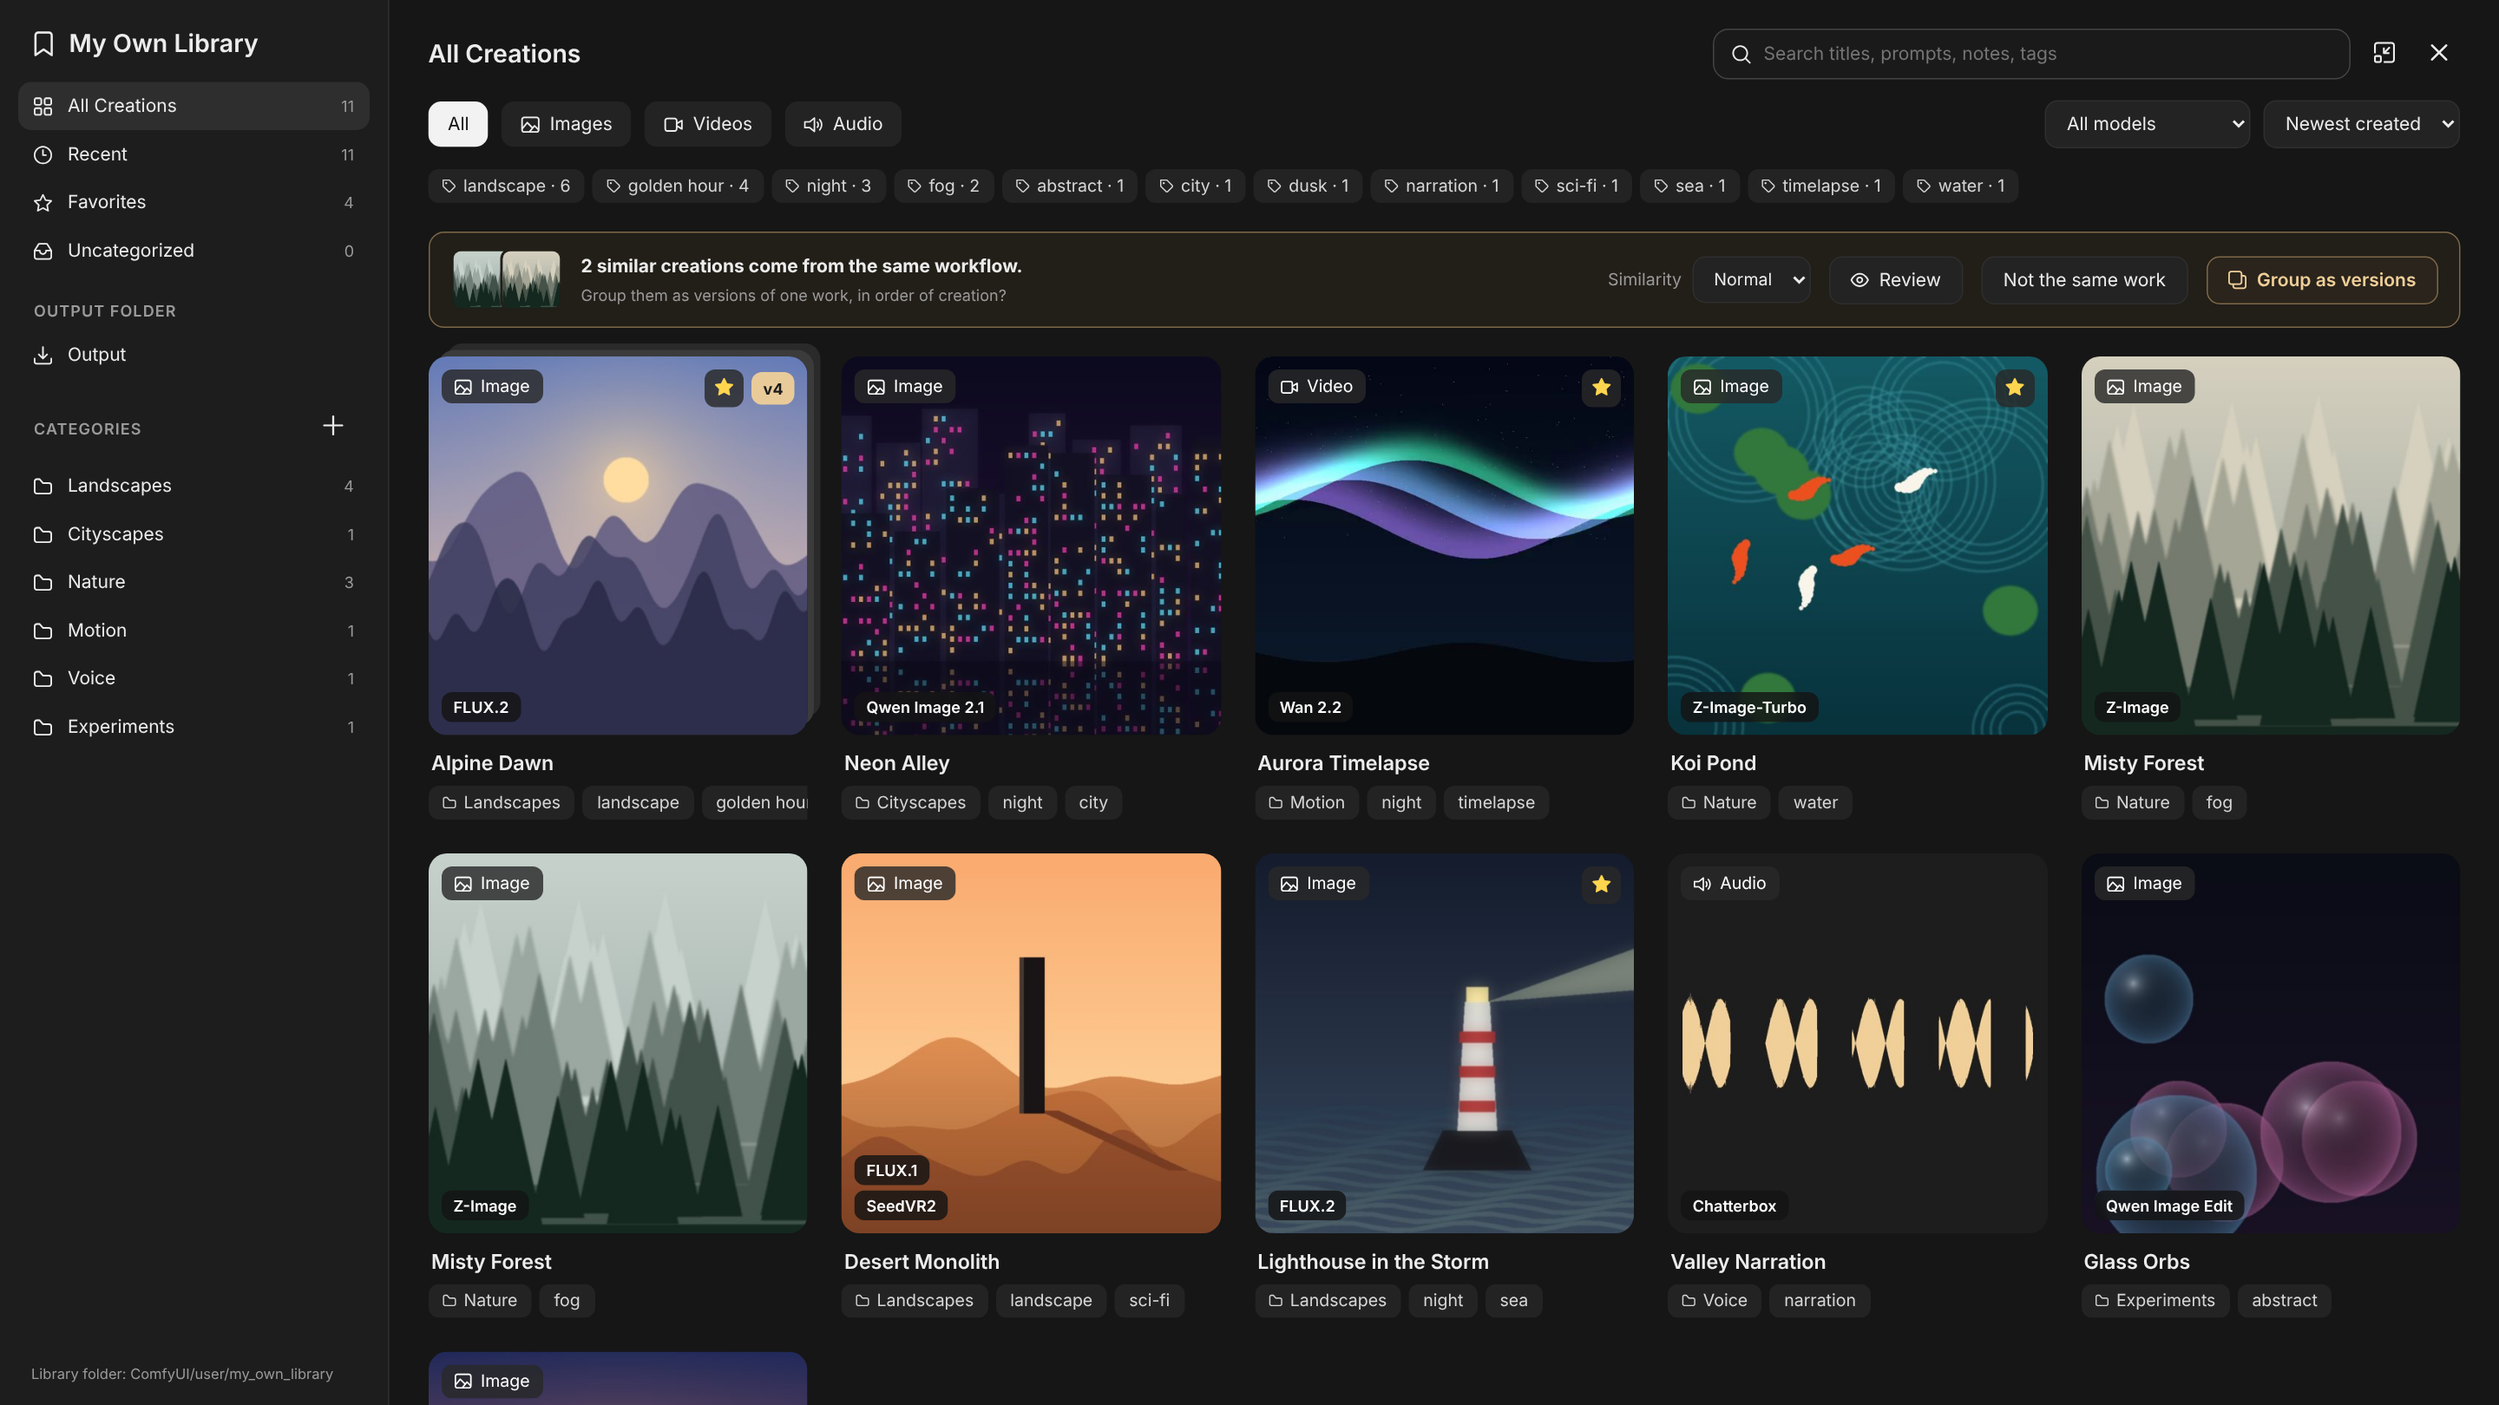
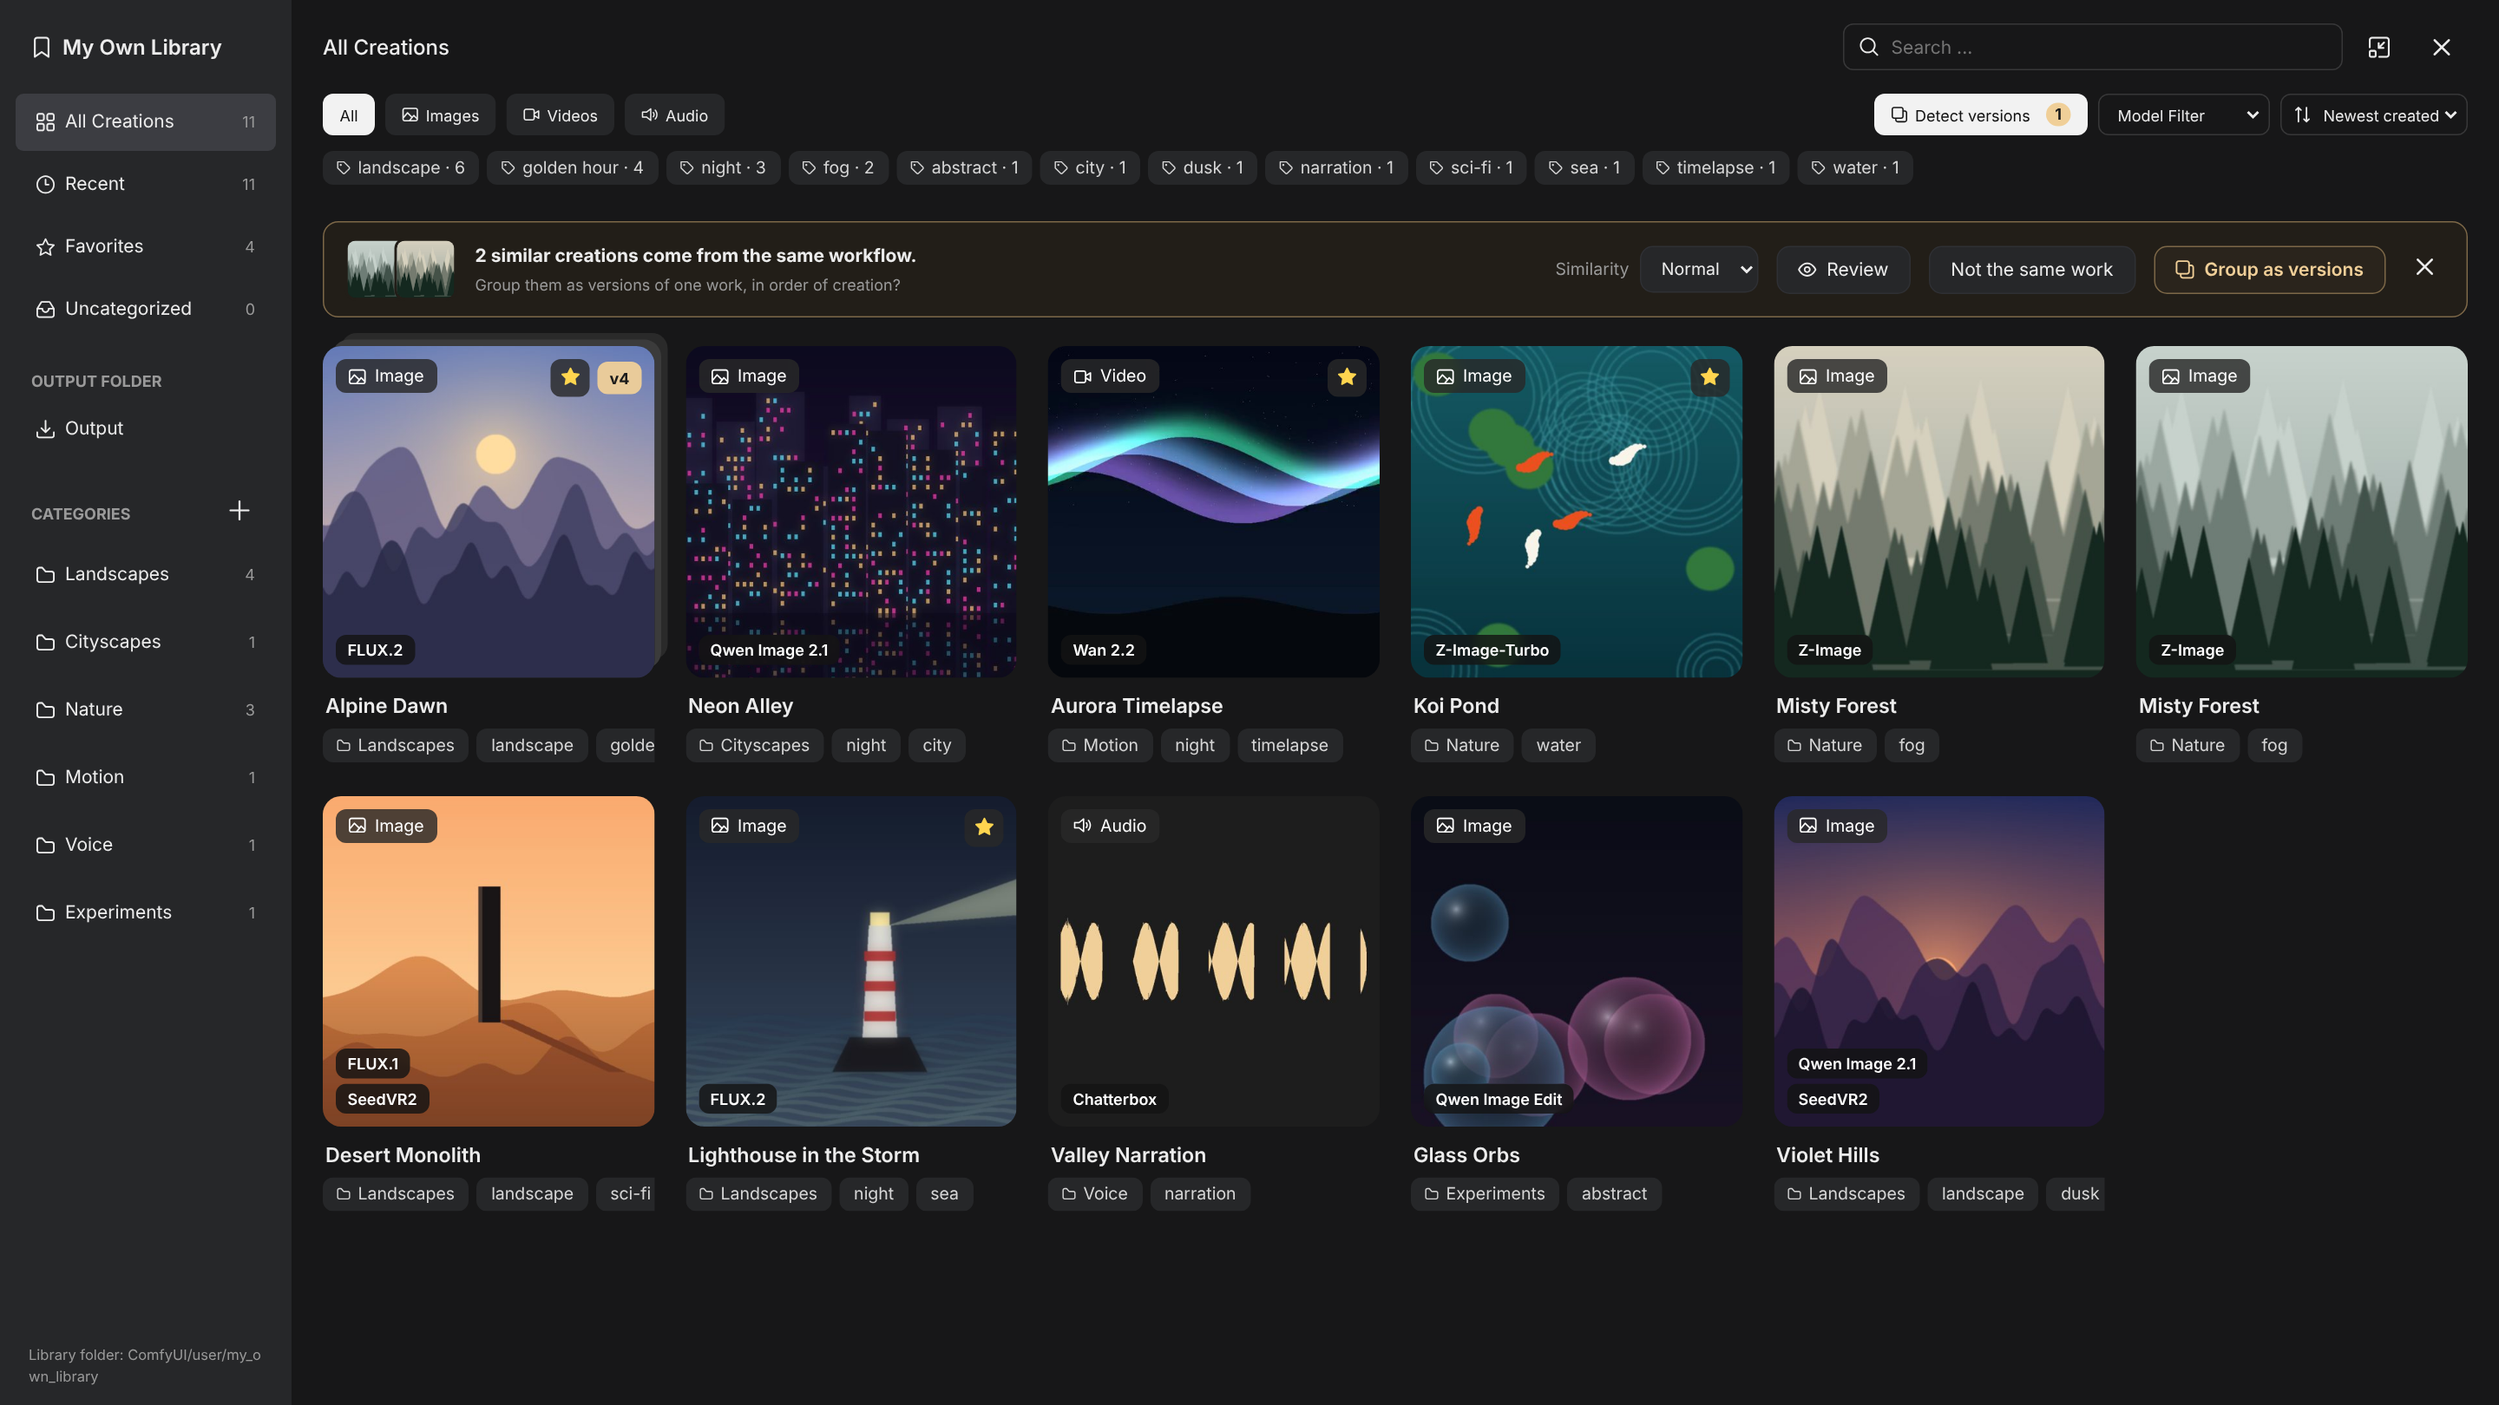
Match the Templates window design
Left column 224 px with Templates' spacing and colors, 72 px header, 384 px
search, close button in the same place, Model Filter and sort menus, smaller
filter buttons, four cards per row. Updated README screenshot.

Claude-Session: https://claude.ai/code/session_01PL6Q2fLhtBdXHD2ppMTosJ

diff --git a/web/my_own_library.js b/web/my_own_library.js
@@ -107,19 +107,22 @@ const CSS = `
 .mol-dialog{position:fixed;inset:0;margin:auto;width:90vw;height:80vh;max-width:1400px;max-height:none;padding:0;box-sizing:border-box;box-shadow:0 18px 60px rgba(0,0,0,.5);
   border:1px solid var(--mol-border);border-radius:16px;background:var(--mol-bg);color:var(--mol-fg);overflow:hidden;
   font-family:inherit;font-size:14px;z-index:10000;
-  --mol-bg:#161616;--mol-panel:#1d1d1d;--mol-card:#232323;--mol-hover:#2c2c2c;--mol-border:#2f2f2f;
+  --mol-bg:#171718;--mol-panel:#262729;--mol-card:#262729;--mol-hover:#2f3034;--mol-border:#2f3034;
   --mol-fg:#ececec;--mol-dim:#9a9a9a;--mol-accent:#f0cf98;--mol-danger:#e57373;--mol-input:#1a1a1a}
 .mol-dialog::backdrop{background:rgba(0,0,0,.55)}
 /* Same size as ComfyUI's Templates window (BaseModalLayout, size md) */
 .mol-dialog.maximized{width:100vw;height:100vh;max-width:none;max-height:none;border:0;border-radius:0}
 .mol-root{display:flex;height:100%;outline:none}
-.mol-nav{width:270px;flex:none;background:var(--mol-panel);border-right:1px solid var(--mol-border);
-  display:flex;flex-direction:column;padding:22px 14px 14px;overflow:auto}
-.mol-brand{display:flex;align-items:center;gap:10px;font-size:19px;font-weight:600;padding:0 10px 18px}
-.mol-navitem{display:flex;align-items:center;gap:12px;padding:10px 12px;border-radius:10px;cursor:pointer;
-  color:var(--mol-fg);user-select:none}
+/* Left column: same measures as Templates (LeftSidePanel, NavItem, NavTitle) */
+.mol-nav{width:224px;flex:none;background:var(--mol-panel);
+  display:flex;flex-direction:column;gap:4px;padding:0 12px 12px;overflow:auto;box-sizing:border-box}
+.mol-brand{display:flex;align-items:center;gap:8px;font-size:16px;font-weight:600;height:72px;flex:none;padding-left:12px;margin-bottom:-4px}
+.mol-navitem{display:flex;align-items:center;gap:8px;padding:12px 16px;border-radius:6px;cursor:pointer;
+  color:var(--mol-fg);user-select:none;font-size:14px;line-height:20px}
+.mol-navitem>i{font-size:14px}
+.mol-section ~ .mol-navitem{margin-top:4px}
 .mol-navitem:hover{background:var(--mol-hover)}
-.mol-navitem.active{background:#2e2e2e}
+.mol-navitem.active{background:#3c3d42}
 .mol-navitem .mol-count{margin-left:auto;color:var(--mol-dim);font-size:12px}
 .mol-navitem .mol-tools{display:none;margin-left:auto;gap:6px}
 .mol-navitem:hover .mol-tools{display:flex}
@@ -127,25 +130,35 @@ const CSS = `
 .mol-tools i{opacity:.7;padding:2px}
 .mol-tools i:hover{opacity:1}
 .mol-section{display:flex;align-items:center;justify-content:space-between;color:var(--mol-dim);font-size:12px;
-  font-weight:600;letter-spacing:.06em;padding:20px 12px 8px;text-transform:uppercase}
+  font-weight:700;padding:20px 12px 0;text-transform:uppercase;min-height:16px}
 .mol-addcat{font-size:12px;padding:4px 6px;min-width:22px;min-height:22px;color:var(--mol-dim)}
 .mol-navfoot{margin-top:auto;padding:16px 10px 2px;color:var(--mol-dim);font-size:11px;word-break:break-all;line-height:1.5}
 .mol-inline-input{width:100%;background:var(--mol-input);color:var(--mol-fg);border:1px solid #555;border-radius:8px;padding:7px 9px;font:inherit}
 .mol-main{flex:1;display:flex;flex-direction:column;min-width:0;position:relative}
-.mol-head{padding:22px 30px 10px;display:flex;flex-direction:column;gap:16px}
-.mol-row{display:flex;align-items:center;gap:10px;flex-wrap:wrap}
-.mol-title{font-size:19px;font-weight:600;margin-right:auto}
-.mol-search{display:flex;align-items:center;gap:8px;border:1px solid #444;border-radius:12px;padding:9px 14px;
-  width:min(460px,40vw);background:var(--mol-input)}
+/* Header: 72 px high, 24 px sides, search 36 px high up to 384 px, 40 px close button */
+.mol-head{padding:0 24px 12px;display:flex;flex-direction:column;gap:12px}
+.mol-head>.mol-row:first-child{height:72px;flex-wrap:nowrap;margin-bottom:-12px;gap:8px}
+.mol-row{display:flex;align-items:center;gap:8px;flex-wrap:wrap}
+.mol-title{font-size:16px;font-weight:500;margin-right:auto;white-space:nowrap}
+.mol-search{display:flex;align-items:center;gap:8px;border:1px solid rgba(255,255,255,.14);border-radius:8px;padding:0 12px;
+  height:36px;box-sizing:border-box;width:100%;max-width:384px;background:transparent;margin-left:auto}
+.mol-head>.mol-row:first-child>.mol-iconbtn{width:40px;height:40px;padding:0;display:inline-flex;align-items:center;justify-content:center}
 .mol-search input{flex:1;background:none;border:0;outline:0;color:var(--mol-fg);font:inherit}
 .mol-iconbtn{background:none;border:0;color:var(--mol-fg);cursor:pointer;font-size:16px;padding:8px;border-radius:8px}
 .mol-iconbtn:hover{background:var(--mol-hover)}
-.mol-chip{display:inline-flex;align-items:center;gap:8px;padding:8px 14px;border-radius:10px;background:var(--mol-card);
-  border:1px solid transparent;cursor:pointer;color:var(--mol-fg);font:inherit;user-select:none}
+.mol-chip{display:inline-flex;align-items:center;gap:6px;height:32px;box-sizing:border-box;padding:0 12px;border-radius:8px;background:var(--mol-card);
+  border:1px solid transparent;cursor:pointer;color:var(--mol-fg);font:inherit;font-size:12px;user-select:none}
+.mol-chip i{font-size:12px}
 .mol-chip:hover{background:var(--mol-hover)}
 .mol-chip.active{background:#f2f2f2;color:#111}
 .mol-select{background:var(--mol-card);color:var(--mol-fg);border:1px solid var(--mol-border);border-radius:10px;
   padding:8px 12px;font:inherit;cursor:pointer;max-width:220px}
+/* Filter menus of the top bar, like Model Filter and the sort menu of Templates */
+.mol-filtersel{display:inline-flex;align-items:center;gap:6px;height:32px;box-sizing:border-box;padding:0 4px 0 10px;
+  border:1px solid rgba(255,255,255,.14);border-radius:8px;font-size:12px;color:var(--mol-fg)}
+.mol-filtersel i{font-size:12px}
+.mol-filtersel select{background:transparent;color:var(--mol-fg);border:0;outline:0;font:inherit;font-size:12px;cursor:pointer;max-width:200px;height:30px}
+.mol-filtersel select option{background:#262729}
 .mol-spacer{flex:1}
 .mol-btn{display:inline-flex;align-items:center;gap:8px;padding:9px 16px;border-radius:10px;border:1px solid var(--mol-border);
   background:var(--mol-card);color:var(--mol-fg);font:inherit;cursor:pointer}
@@ -159,8 +172,8 @@ const CSS = `
   font-size:13px;color:#d6d6d6;cursor:pointer;white-space:nowrap}
 .mol-tag.active{background:var(--mol-accent);color:#1b1b1b}
 .mol-tag i{font-size:10px}
-.mol-grid-wrap{flex:1;overflow:auto;padding:8px 30px 30px}
-.mol-grid{display:grid;grid-template-columns:repeat(auto-fill,minmax(250px,1fr));gap:26px 26px}
+.mol-grid-wrap{flex:1;overflow:auto;padding:12px 24px 30px}
+.mol-grid{display:grid;grid-template-columns:repeat(auto-fill,minmax(240px,1fr));gap:26px 24px}
 .mol-card{cursor:pointer;min-width:0}
 .mol-thumb{position:relative;aspect-ratio:1/1;border-radius:14px;overflow:hidden;background:var(--mol-card)}
 .mol-thumb img,.mol-thumb video{width:100%;height:100%;object-fit:cover;display:block;transition:transform .25s}
@@ -766,7 +779,7 @@ function renderMain() {
     syncVersionBanner();
     const isOutput = S.view === "output";
     const searchInput = h("input", {
-        type: "text", placeholder: isOutput ? "Search file names" : "Search titles, prompts, notes, tags",
+        type: "text", placeholder: "Search ...", title: isOutput ? "Search file names" : "Search titles, prompts, notes, tags and models",
         value: S.search,
     });
     const doSearch = debounce(async () => {
@@ -788,21 +801,23 @@ function renderMain() {
         chip("audio", "Audio", "volume-up")];
     if (!isOutput) {
         const families = allFamilies();
-        const modelSel = h("select", { class: "mol-select", onchange: (e) => { S.family = e.target.value; render(); } },
-            h("option", { value: "" }, "All models"),
-            ...families.map((m) => h("option", { value: m, selected: S.family === m }, m)));
-        const sortSel = h("select", { class: "mol-select", title: "Sort order",
+        const modelSel = h("label", { class: "mol-filtersel", title: "Show only creations made with this model" },
+            h("select", { onchange: (e) => { S.family = e.target.value; render(); } },
+                h("option", { value: "" }, "Model Filter"),
+                ...families.map((m) => h("option", { value: m, selected: S.family === m }, m))));
+        const sortSel = h("select", { title: "Sort order",
             onchange: (e) => { S.sort = e.target.value; savePref("sort", S.sort); render(); } },
             ...[["created-desc", "Newest created"], ["created-asc", "Oldest created"], ["added-desc", "Newest added"],
                 ["added-asc", "Oldest added"], ["title", "Title"]]
                 .map(([v, l]) => h("option", { value: v, selected: S.sort === v }, l)));
+        const sortBox = h("label", { class: "mol-filtersel", title: "Sort order" }, icon("sort-alt"), sortSel);
         const nSug = visibleSuggestions().length;
         const detectBtn = h("button", {
             class: "mol-chip" + (S.versionsOpen ? " active" : ""),
             title: "Show or hide the suggestions of creations to group as versions, and how alike they must be",
             onclick: () => { S.versionsOpen = !S.versionsOpen; savePref("versionsOpen", S.versionsOpen ? "1" : "0"); render(); },
         }, icon("clone"), "Detect versions", nSug ? h("span", { class: "mol-chipcount" }, String(nSug)) : null);
-        filters.push(h("span", { class: "mol-spacer" }), detectBtn, modelSel, sortSel);
+        filters.push(h("span", { class: "mol-spacer" }), detectBtn, modelSel, sortBox);
     } else {
         filters.push(h("button", {
             class: "mol-chip" + (S.newOnly ? " active" : ""), title: "Only files created since your previous visit of this view",

diff --git a/README.md b/README.md
@@ -44,11 +44,11 @@ Click the **My Own Library** icon (bookmark) in the left sidebar: the window ope
 | Tags | Type a few letters: matching tags appear, most used first. **↑** / **↓** to choose, **Enter** or **Tab** to take one, **Esc** to close the list. **Enter** on text that matches nothing creates a new tag. |
 | Correct the model families | In a creation's detail panel, type in **Model**; several families are separated with commas, in order of execution. Leave it empty to use the detected list. |
 | Sort new generations | When the sidebar icon shows a number, click it: the Output view opens on the new files (**New since last visit**). Toggle that filter off to see everything. |
-| Sort | The menu next to **All models**: newest or oldest created (default: newest created), newest or oldest added, or title. Your choice is remembered. |
+| Sort | The menu with the ⇅ icon, next to **Model Filter**: newest or oldest created (default: newest created), newest or oldest added, or title. Your choice is remembered. |
 | Browse | **←** / **→** move between creations, **Esc** goes back to the grid, then closes the window. |
 | Suggestions and filters | The version suggestion follows the current view and filters: with **FLUX.2** selected, only FLUX.2 creations of a workflow are proposed, and **Not the same work** only sets those aside. |
 | Review a suggestion | **Review** in the suggestion banner shows the creations in large thumbnails (click one to see it full size). Untick the ones that don't belong, then **Group N as versions**: only the ticked ones are grouped, and the others are not suggested again. Review then opens the next suggestion (**Suggestion 2 of 5** in the header); **Skip** leaves one for later. When every suggestion has been handled or skipped, you are back to the grid. |
-| Detect versions | The **Detect versions** button, next to the model menu, shows or hides the suggestion banner; it shows how many suggestions there are. The banner opens by itself when a new suggestion appears, and stays closed otherwise once you close it. |
+| Detect versions | The **Detect versions** button, next to **Model Filter**, shows or hides the suggestion banner; it shows how many suggestions there are. The banner opens by itself when a new suggestion appears, and stays closed otherwise once you close it. |
 | Similarity of suggestions | The **Similarity** menu in the suggestion banner (always there while the banner is open, even when nothing is found): **Strict** (near-identical variations only), **Normal** (default) or **Loose** (looser resemblance, more suggestions). Your choice is remembered. In **Review**, each card shows its lowest similarity to the other creations of the suggestion, so one that doesn't belong stands out. |
 | Group versions | Accept the suggestion at the top of the library, or tick the cards to group (checkbox on hover) and use **Group as versions**. Title, category, tags and favorite are shared by the work; each version keeps its own notes. |
 | Reorder versions | Drag a thumbnail of the version strip to another place, or use the up and down arrow buttons in the detail panel (**Alt+↑** / **Alt+↓**) to move the version shown. Numbers and **Changes since** follow the new order. **Sort by date** puts the versions back in order of creation. When works are grouped together, each keeps its own order, and they are interleaved by date. |
